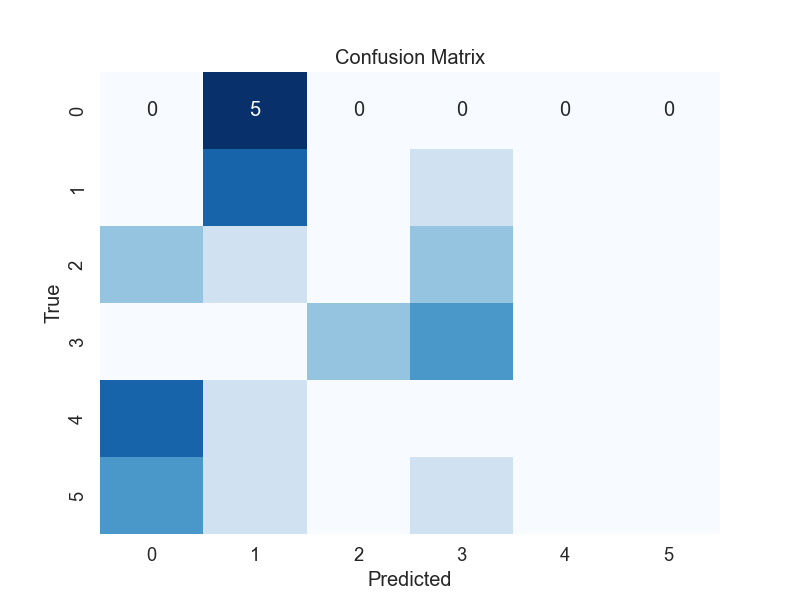
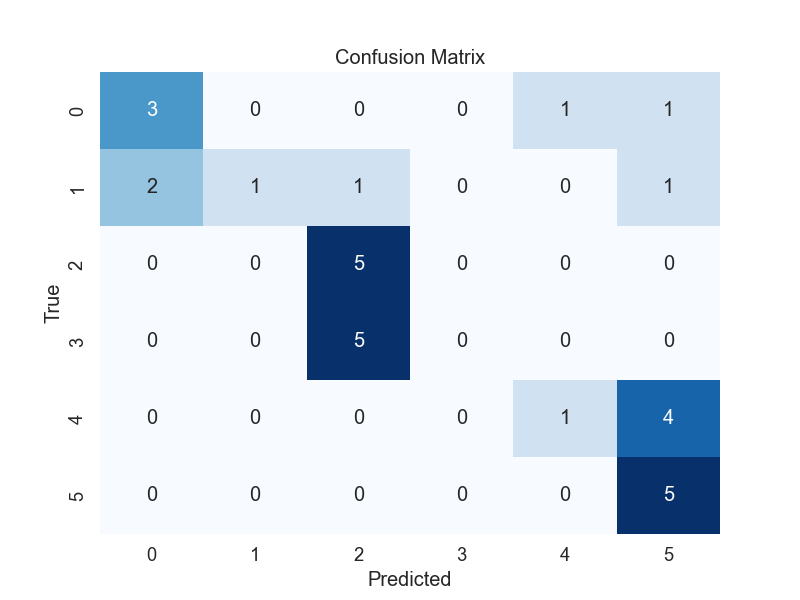
pretraining tests

diff --git a/train.py b/train.py
@@ -14,6 +14,7 @@ import tensorflow as tf
 
 import dataloader
 import network
+from tensorflow.keras.callbacks import EarlyStopping
 
 print('Available GPUs', tf.config.list_physical_devices('GPU'))
 
@@ -33,13 +34,18 @@ def train_network(conf_matrix_name, epochs=10, augment=True, recombinations=10, 
         num_classes = num_classes // 2
     elif classmode == "compressed":
         num_classes = num_classes - 2
+    elif classmode == "compressed-end" or classmode == "compressed-start":
+        num_classes = 5
+    elif classmode == "compressed-both":
+        num_classes = 4
 
     if task_mode == "regression":
         num_classes = 1
     print(f"Predicting {num_classes} classes")
 
     if pretrain:
-        model = pretrain_model(transfer=transfer, num_classes=num_classes, freeze=freeze, transfer_source=transfer_source)
+        model = pretrain_model(transfer=transfer, num_classes=num_classes, freeze=freeze,
+                               transfer_source=transfer_source)
     else:
         if transfer:
             if transfer_source == "xception":
@@ -60,9 +66,14 @@ def train_network(conf_matrix_name, epochs=10, augment=True, recombinations=10, 
     # TODO: manually pretrain on a dataset other than imagenet (ideally the same sort of microscopy, could also be in
     #  combination with imagenet)
 
-    hist = model.fit(train, epochs=epochs, verbose=1, validation_data=val)
+    # Define an early stopping callback
+    early_stopping = EarlyStopping(
+        monitor='val_accuracy',  # Metric to monitor for improvement
+        patience=epochs,  # Number of epochs with no improvement before stopping
+        restore_best_weights=True  # Restore the best weights when stopping
+    )
 
-    # TODO: after the fitting, the program for some reason initiates another training run with seemingly default parameters which then crashes due to undefined variables being used
+    hist = model.fit(train, epochs=epochs, verbose=1, validation_data=val, callbacks=[early_stopping])
 
     if task_mode == 'classification':
         preds = np.argmax(model.predict(val), axis=1)
@@ -138,12 +149,21 @@ def pretrain_model(transfer=False, num_classes=6, freeze=True, task_mode="classi
         model = network.resnet(num_classes=pretrain_classes, task_mode=task_mode)
 
     train, val = dataloader.ssnombacter_data()
-    hist = model.fit(train, epochs=10, verbose=1, validation_data=val)
+
+    # Define an early stopping callback
+    early_stopping = EarlyStopping(
+        monitor='val_accuracy',  # Metric to monitor for improvement
+        patience=5,  # Number of epochs with no improvement before stopping
+        restore_best_weights=True  # Restore the best weights when stopping
+    )
+
+    hist = model.fit(train, epochs=50, verbose=1, validation_data=val, callbacks=[early_stopping])
 
     model.layers.pop()
     activation = 'softmax' if task_mode == 'classification' else None
     model.layers.append(tf.keras.layers.Dense(num_classes, activation=activation))
 
+    # TODO: Check of the effect of grayscaling our own image in combination with this pretraining
     # TODO: consider cutting off multiple/all dense layers after pretraining
     # TODO: tune the pretraining length (and architecture) a bit
     # TODO: consider unfreezing a larger part of the base model (either just during pretraining or during both stages)
@@ -249,21 +269,20 @@ def ablation():
     # Create DataFrames for different settings
     file = util.data_path("classmode.csv")
 
-    if not os.path.exists(file):
-        pd.DataFrame().to_csv(file)
-    runs = 1
-    epochs = 5
+    pd.DataFrame().to_csv(file)
+    runs = 5
+    epochs = 15
 
-    average_train("Standard", file, runs=runs, epochs=epochs, augment=True, recombinations=5, transfer=False,
+    average_train("Standard", file, runs=runs, epochs=epochs, augment=True, recombinations=5, transfer=True,
                   freeze=False, classmode="standard", transfer_source="xception", task_mode='classification')
 
-    average_train("Compress End", file, runs=runs, epochs=epochs, augment=True, recombinations=5, transfer=False,
-                  freeze=False, classmode="compressed-end", transfer_source="xception", task_mode='classification')
-
-    average_train("Compress Start", file, runs=runs, epochs=epochs, augment=True, recombinations=5, transfer=False,
+    average_train("Compressed Start", file, runs=runs, epochs=epochs, augment=True, recombinations=5, transfer=True,
                   freeze=False, classmode="compressed-start", transfer_source="xception", task_mode='classification')
 
-    average_train("Compress Both", file, runs=runs, epochs=epochs, augment=True, recombinations=5, transfer=False,
+    average_train("Compressed End", file, runs=runs, epochs=epochs, augment=True, recombinations=5, transfer=True,
+                  freeze=False, classmode="compressed-end", transfer_source="xception", task_mode='classification')
+
+    average_train("Compressed Both", file, runs=runs, epochs=epochs, augment=True, recombinations=5, transfer=True,
                   freeze=False, classmode="compressed-both", transfer_source="xception", task_mode='classification')
 
 

diff --git a/network.py b/network.py
@@ -86,8 +86,11 @@ IMG_ROWS = 512
 RGB_CHANNELS = 3
 INPUT_SHAPE = (IMG_ROWS, IMG_COLS, RGB_CHANNELS)
 CLASSIFICATION_METRICS = ["accuracy", obo_accuracy]
-REGRESSION_METRICS = ["mean_absolute_error", obo_accuracy, obh_accuracy_r, obt_accuracy_r]
+REGRESSION_METRICS = ["mean_absolute_error", obo_accuracy_r, obh_accuracy_r, obt_accuracy_r]
 
+
+# TODO: a model that predicts the three constituent features of the classification
+#  (either alone or as an additional head next to the class)
 
 def add_task_layers(model, num_classes, task_mode):
     if task_mode == "classification":
@@ -118,7 +121,10 @@ def add_task_layers(model, num_classes, task_mode):
             metrics=REGRESSION_METRICS
         )
 
+    model.summary()
+
     return model
+
 
 # TODO: try different resolutions, analyse prediction performance, runtime speed, and minimal model size
 

diff --git a/plot.py b/plot.py
@@ -12,9 +12,9 @@ sns.set_style("whitegrid")
 data = pd.read_csv(util.data_path("classmode.csv"))
 
 # Define the settings you want to exclude
-exclude_settings = ["Halved Classes", "Compressed Outer Classes"]
+exclude_settings = ["Compress Both", "Compress End", "Compress Start"]
 
-exclude_metrics = ["Validation Off-By-Half Accuracy", "Validation Off-By-Tenth Accuracy"]
+exclude_metrics = ["Validation Off-By-One Accuracy", "Validation Off-By-Tenth Accuracy"]
 
 # Filter the DataFrame to exclude the specified settings
 filtered_data = data[~data['Setting'].isin(exclude_settings)]

diff --git a/dataloader.py b/dataloader.py
@@ -172,7 +172,7 @@ def all_data(val_split=0.5, batch_size=2, recombinations=10, augment=True, class
     return train, val
 
 
-def ssnombacter_data(val_split=0.5, batch_size=8):
+def ssnombacter_data(val_split=0.2, batch_size=8):
     """
     Load the SSNOMBACTER datasets
     """
@@ -240,8 +240,3 @@ def reaarange_nombacter():
                 tiff_image.save(png_image_path)
 
     print("Data reorganization completed.")
-
-
-# reaarange_nombacter()
-train, val = ssnombacter_data()
-print(train.cardinality(), val.cardinality())
